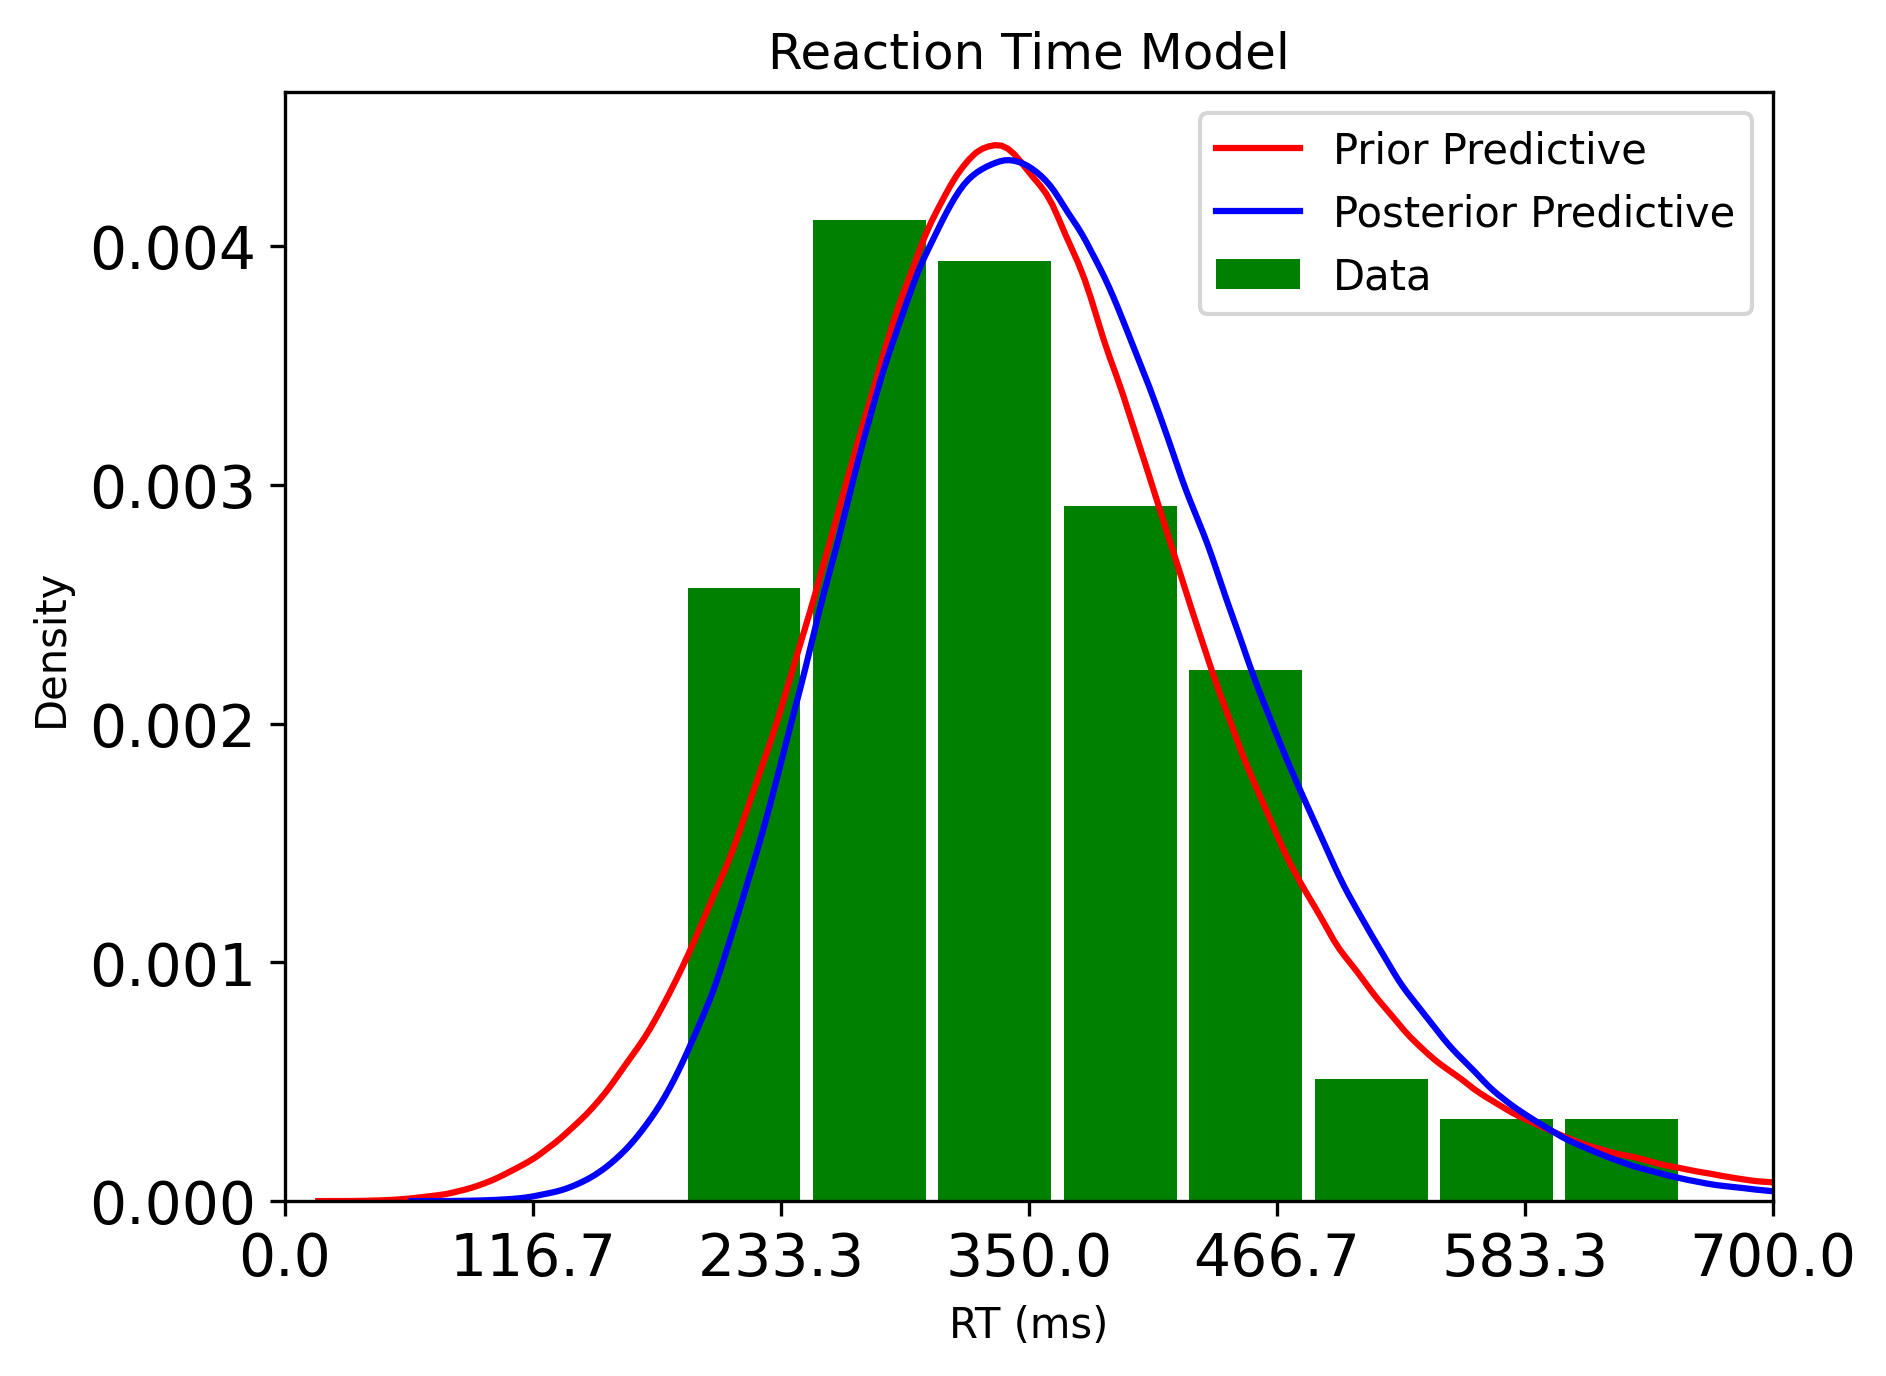
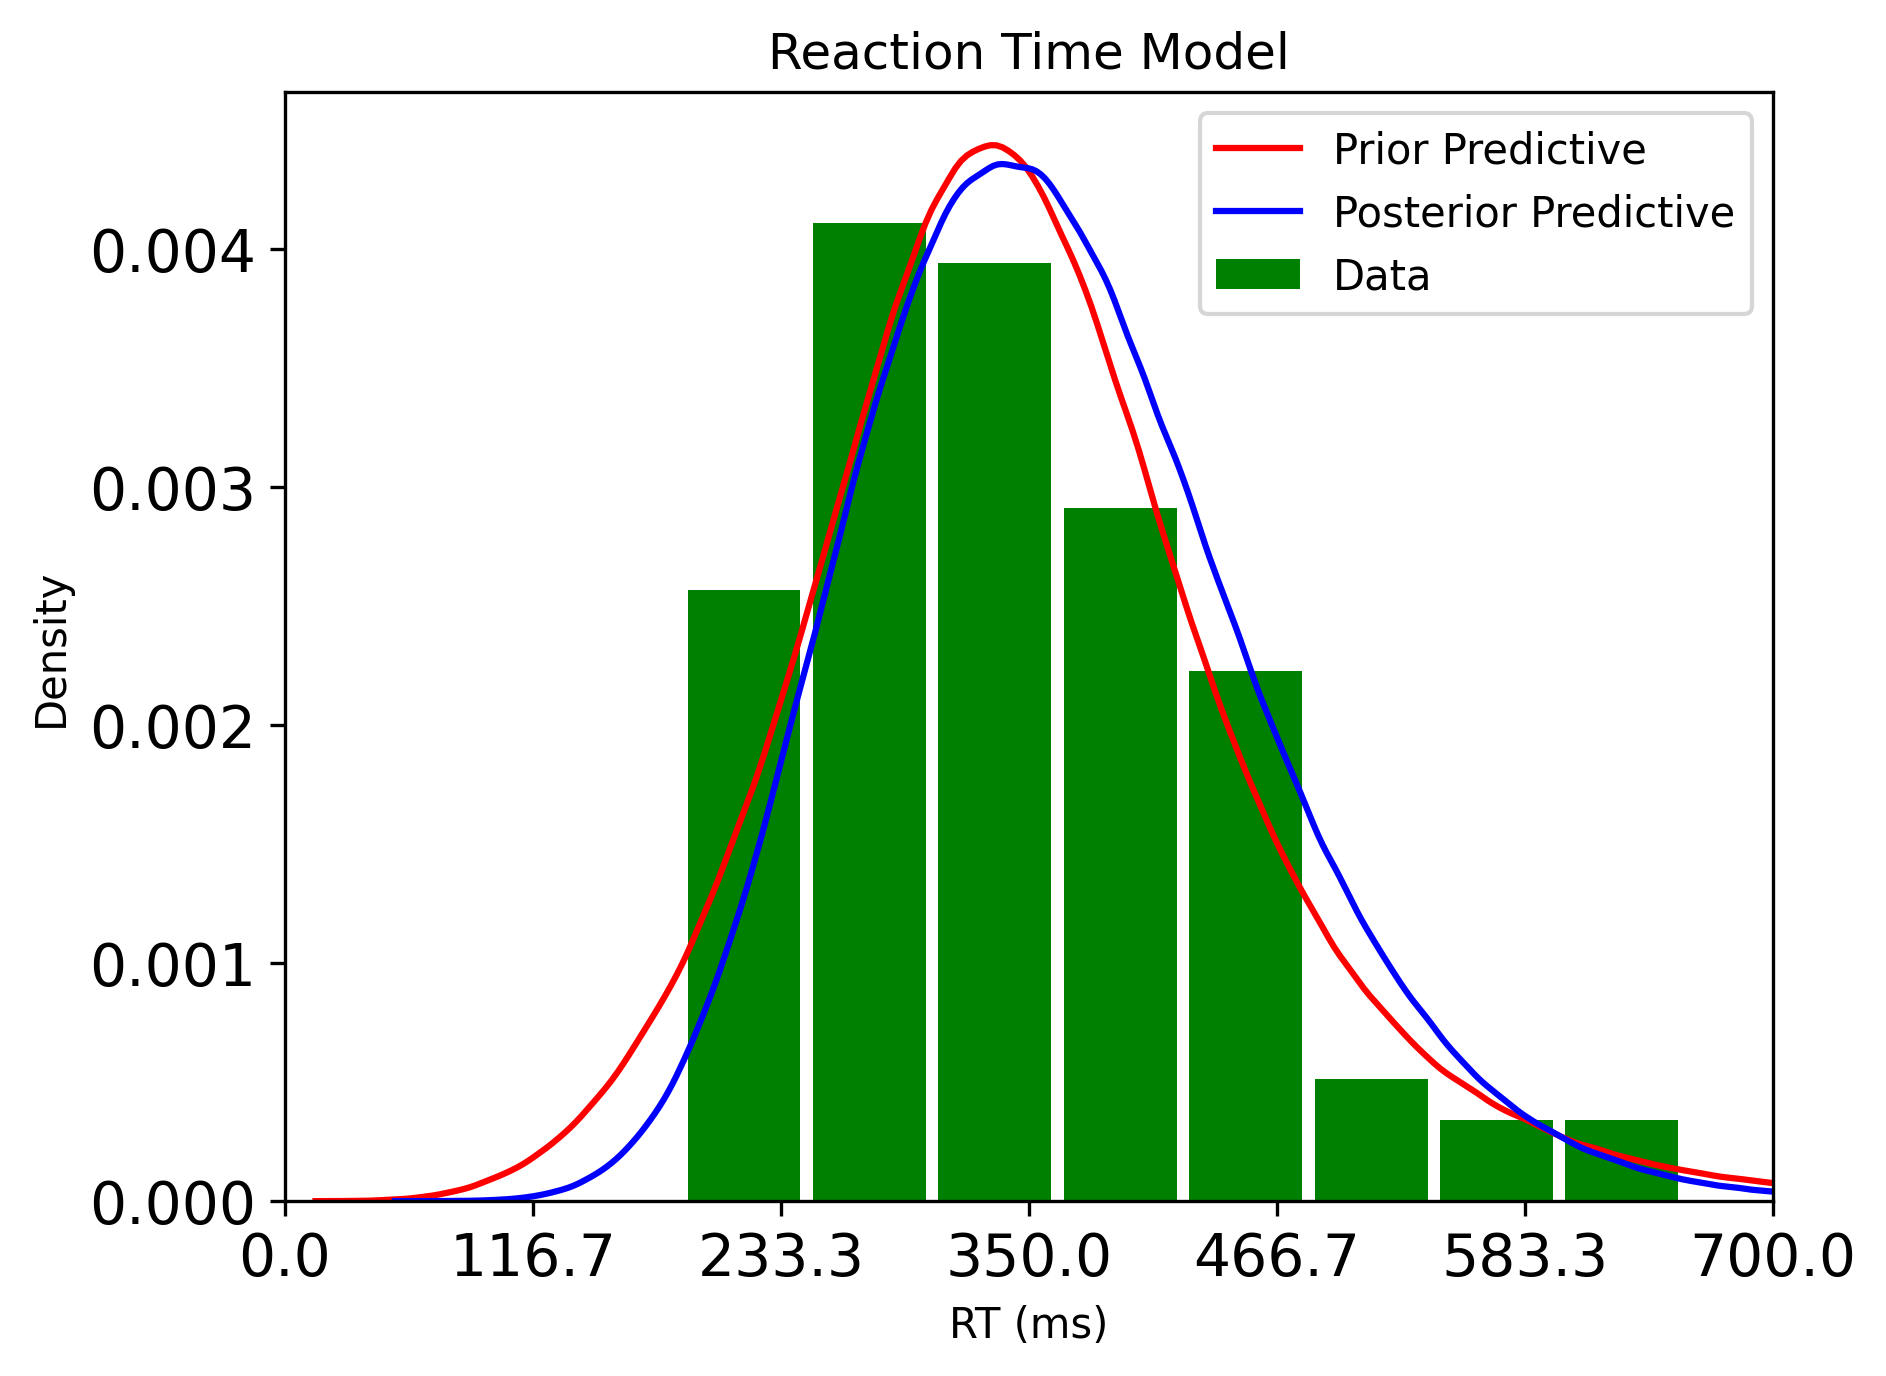
any changes while figuring out the BF

diff --git a/HW2/crista_falk_HW2.py b/HW2/crista_falk_HW2.py
@@ -17,7 +17,7 @@ def save_and_show(fig: mpl.figure.Figure, filename: str) -> None:
 
 # remove or add elements to test only certain parts at a time
 # exercises_to_run = ["A","B","C"]
-exercises_to_run = ["A","B"]
+exercises_to_run = ["A","B","C"]
 
 # pymc global variables
 RETURN_INFERENCEDATA = True
@@ -57,7 +57,7 @@ if __name__ == "__main__":
 
     # prior for the model parameter sigma found through Mathematica: sigma ~ Exp(1/mean_std)
     if "A" in exercises_to_run:
-        mean_of_prior_stddev = 400
+        mean_of_prior_stddev = 500
         lambda_of_prior_stddev = 1/mean_of_prior_stddev
 
         with pm.Model() as HalfNormalModel:
@@ -211,5 +211,8 @@ if __name__ == "__main__":
     # -----------------------------
     if "A" and "B" and "C" in exercises_to_run:
         # compute a Bayes factor
-        BF = az.compare({"GammaModel": trace_GammaModel, "HalfNormalModel": trace_HalfNormalModel})
+        BF = ":("
         print("Bayes Factor:", BF)
+        """
+        az.plot_bf(idata_conc, var_name="RT", ref_val=0.5);
+        """

diff --git a/HW2/README.md b/HW2/README.md
@@ -14,7 +14,10 @@ pip install seaborn
 ```python crista_falk_HW2.py```
 
 # Exercise A: Fitting the half-normal model
+Using an exponential prior over the mean standard deviation, I attempt to fit a Half Normal model to the data.
 
 # Exercise B: Fitting a Gamma distribution
+Using a Normal prior over the mean parameter and an uninformed, uniform prior over the standard deviation parameter, I attempt to fit a Gamma model to the data.
 
 # Exercise C – Comparison and Discussion
+Visually and numerically (using Bayes Factor), the Gamma distribution is better suited to the data.
